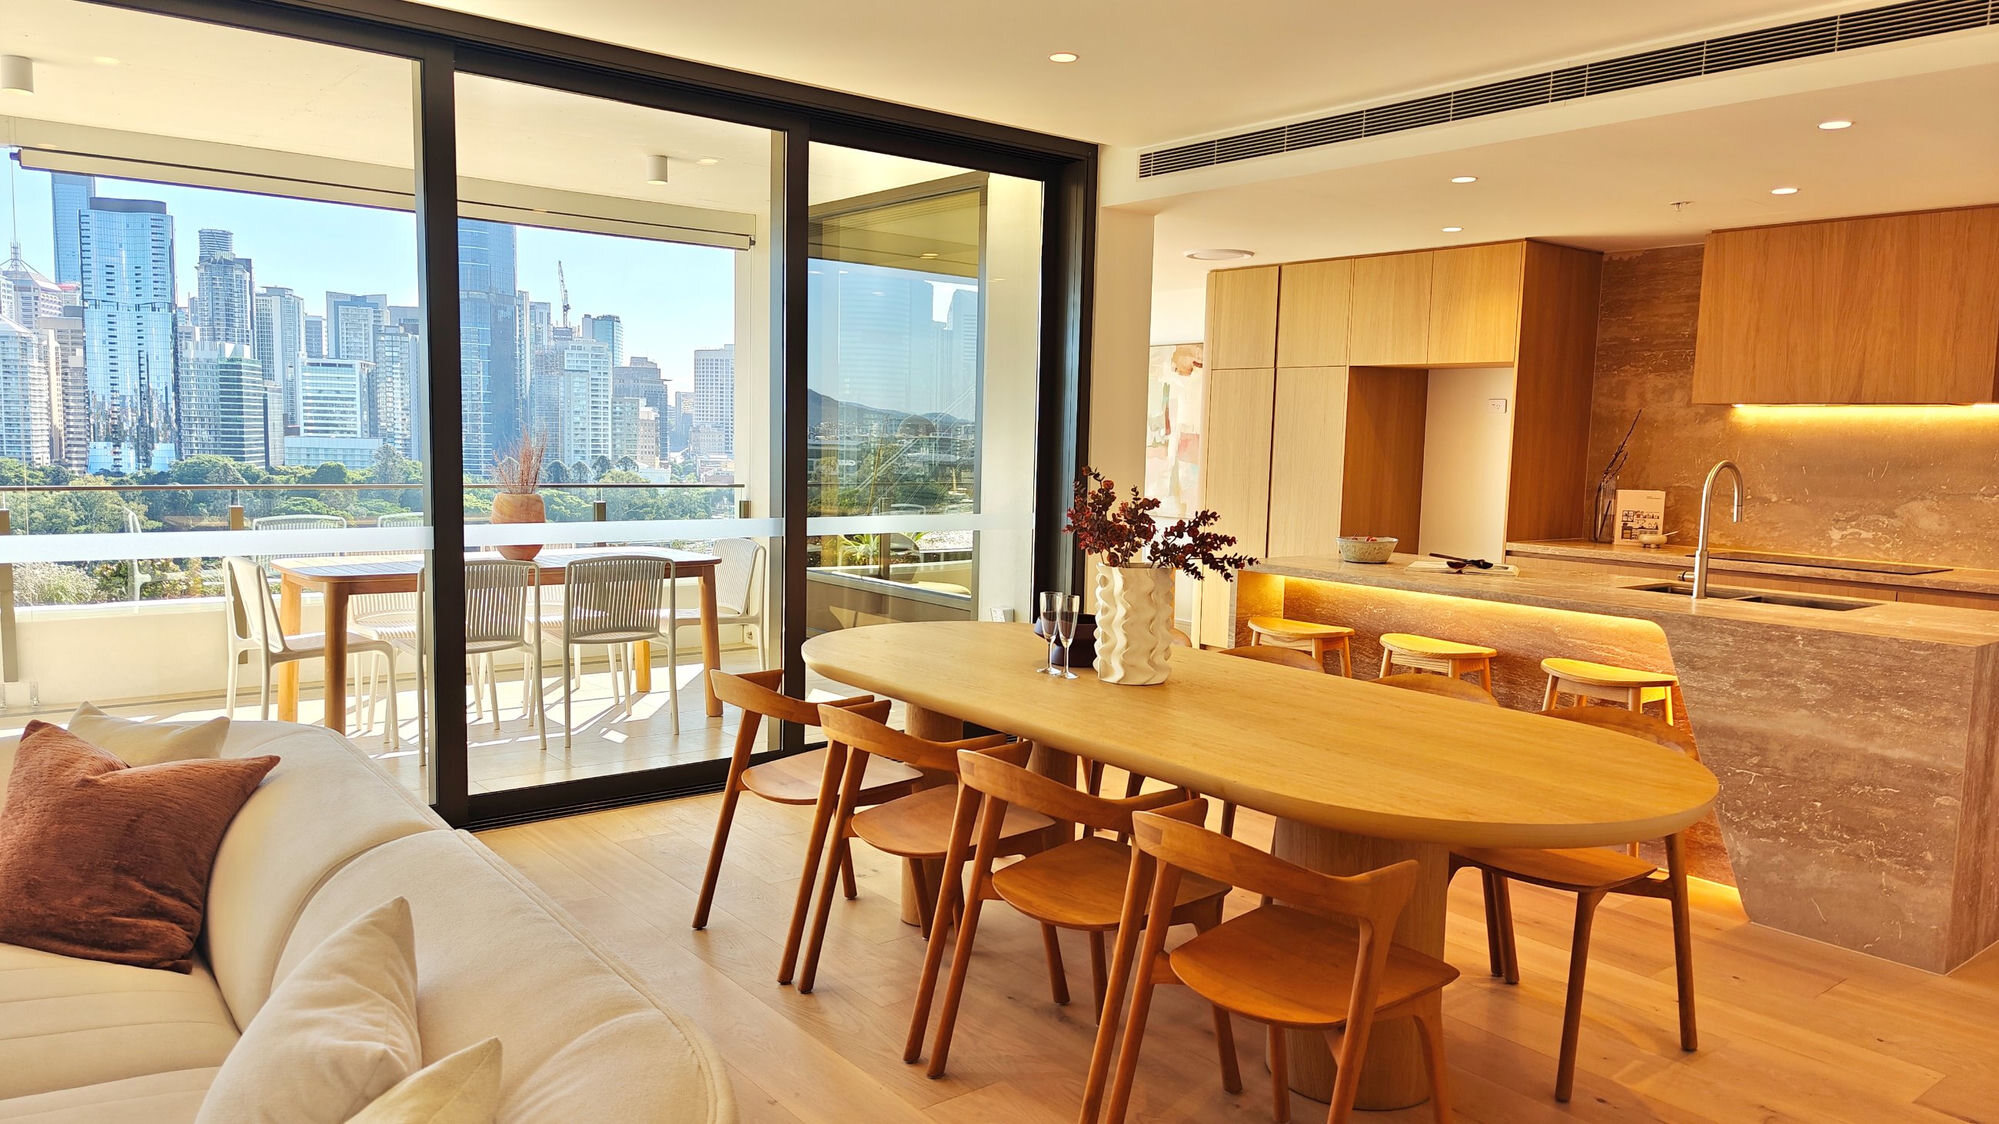
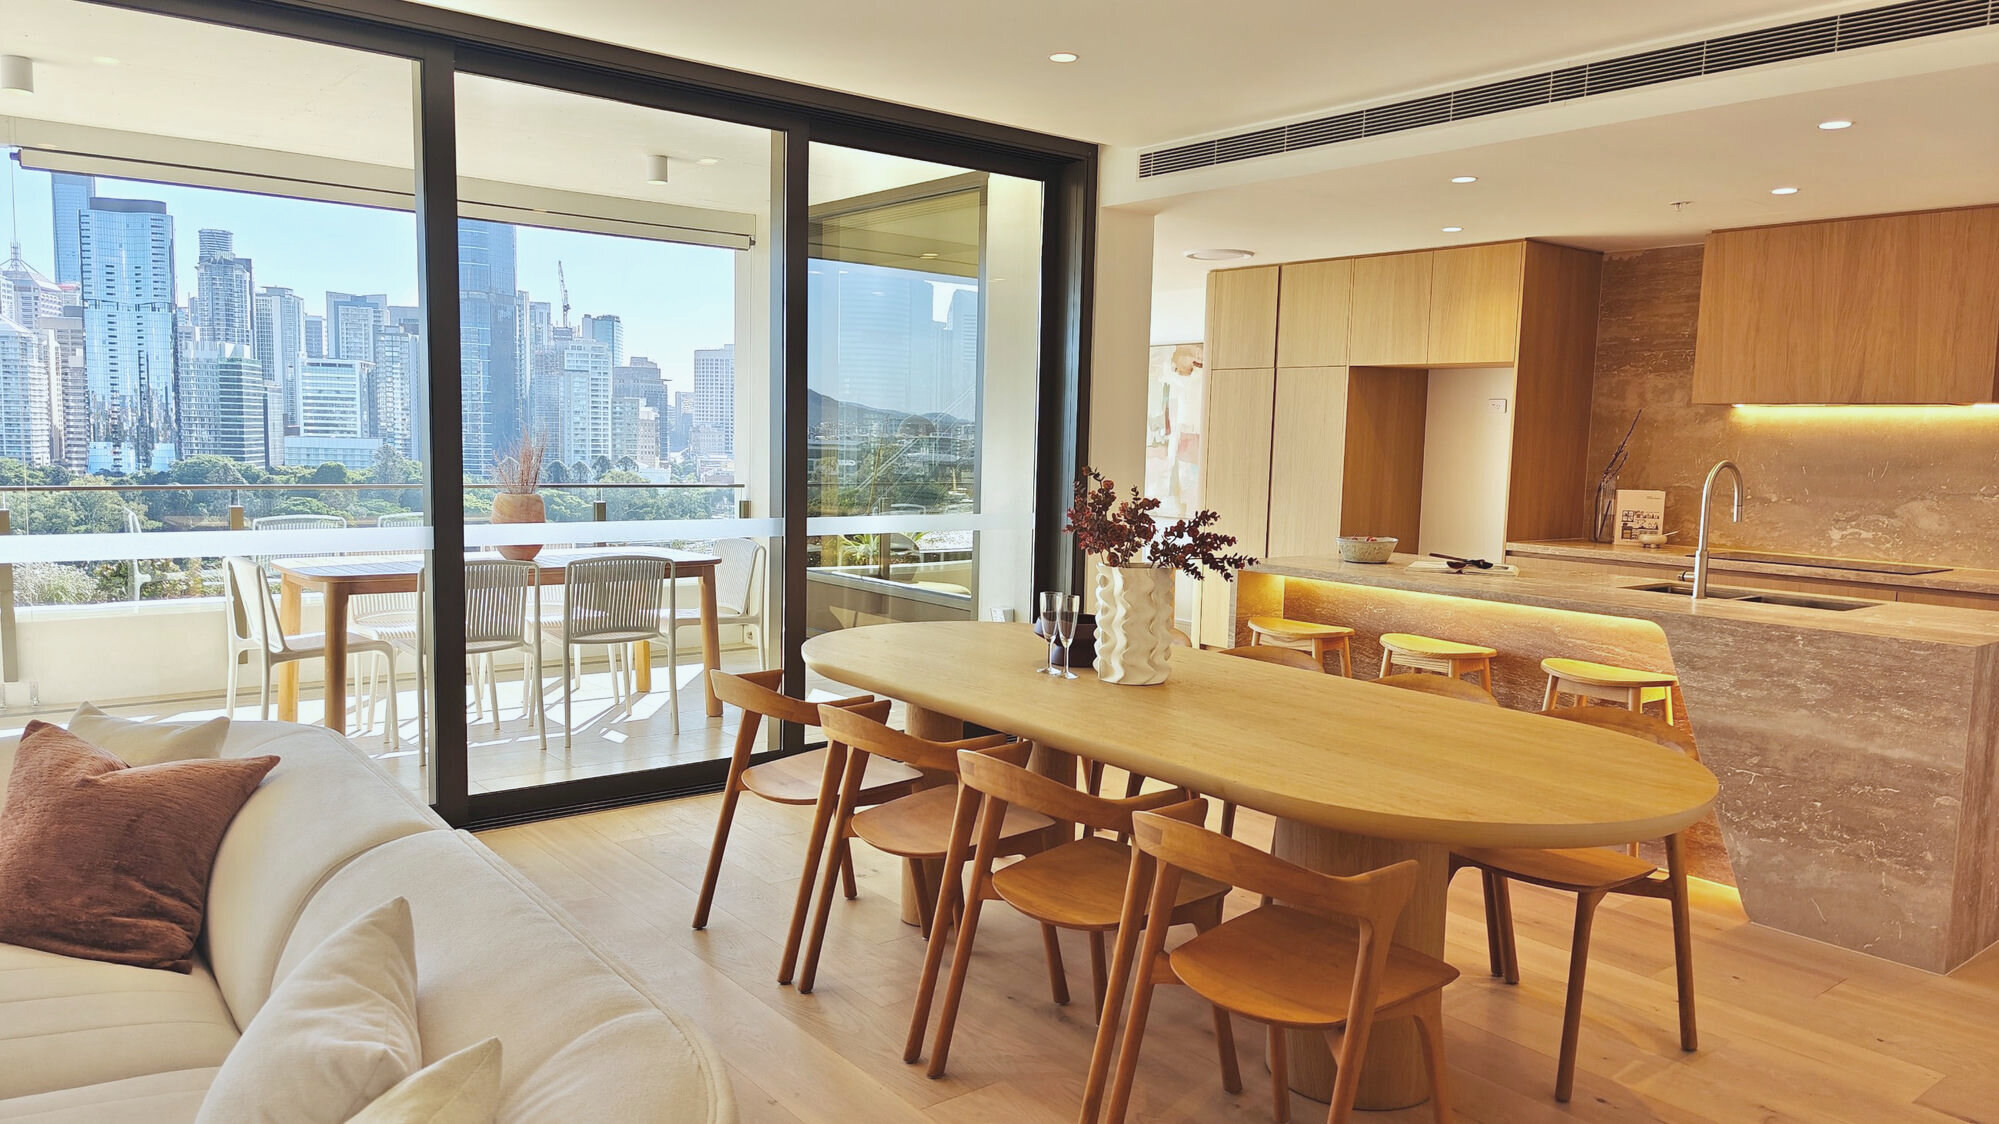
Refine: brighten+airy filter on bedroom(07)/living(13), harmonize finishes(19) tone; redesign film CTA as elegant circular play button; tighten suite phrase to one line close to images (merge sec17); rooftop image moved above text; amenity images above one-line caption (drop eyebrow); closing back t

diff --git a/index.html b/index.html
@@ -152,7 +152,7 @@
 
   /* ---------- closing ---------- */
   .closing{height:100svh;min-height:560px;display:flex;align-items:center;justify-content:center;text-align:center;
-    background:linear-gradient(180deg,rgba(20,14,10,.42),rgba(20,14,10,.72)),url('assets/photos/p25_close.jpg') center/cover no-repeat}
+    background:linear-gradient(180deg,rgba(20,14,10,.42),rgba(20,14,10,.72)),url('assets/photos/facade.jpg') center/cover no-repeat}
   .closing .ci{max-width:760px;padding:0 24px}
   .closing h2{color:#fff}
   .closing .addr{margin-top:36px;font-size:13px;letter-spacing:.32em;color:#ece4d6;text-transform:uppercase;line-height:2.2}
@@ -178,7 +178,9 @@
   .film-card .fc .e{font-size:10px;letter-spacing:.34em;color:var(--bronze);text-transform:uppercase}
   .film-card .fc .t{font-family:var(--serif);font-size:18px;color:#fff;margin-top:5px;text-shadow:0 2px 18px rgba(0,0,0,.6)}
   .film-card{cursor:pointer}
-  .film-card .fc .play{margin-top:11px;display:inline-flex;align-items:center;font-size:11px;letter-spacing:.16em;color:#fff;background:rgba(255,255,255,.16);border:1px solid rgba(255,255,255,.45);padding:7px 14px;border-radius:30px;backdrop-filter:blur(4px)}
+  .film-card .fc .play{margin-top:14px;display:inline-flex;align-items:center;gap:11px;font-size:10px;letter-spacing:.32em;text-transform:uppercase;color:#f1eade;font-weight:300}
+  .film-card .fc .play .ico{width:34px;height:34px;border:1px solid rgba(241,234,222,.6);border-radius:50%;display:inline-flex;align-items:center;justify-content:center;font-size:8px;padding-left:2px;transition:.35s ease}
+  .film-card:hover .fc .play .ico{background:var(--bronze);border-color:var(--bronze);color:#fff}
   @media(max-width:760px){.films{grid-template-columns:1fr;max-width:360px;margin-left:auto;margin-right:auto}}
 
   @media(max-width:860px){
@@ -412,11 +414,11 @@
     <div class="films reveal d2">
       <div class="film-card">
         <video src="assets/video/film_interior.mp4?v=2" poster="assets/video/film_interior.jpg?v=2" autoplay muted loop playsinline webkit-playsinline x5-playsinline disablepictureinpicture preload="auto"></video>
-        <div class="fc"><div class="e">Interior</div><div class="t">室内漫游 · 落地视野</div><div class="play">▶ 点击观看视频</div></div>
+        <div class="fc"><div class="e">Interior</div><div class="t">室内漫游 · 落地视野</div><div class="play"><span class="ico">▶</span>点击观看视频</div></div>
       </div>
       <div class="film-card">
         <video src="assets/video/film_view.mp4?v=2" poster="assets/video/film_view.jpg?v=2" autoplay muted loop playsinline webkit-playsinline x5-playsinline disablepictureinpicture preload="auto"></video>
-        <div class="fc"><div class="e">The View</div><div class="t">城市视野 · 河与天际线</div><div class="play">▶ 点击观看视频</div></div>
+        <div class="fc"><div class="e">The View</div><div class="t">城市视野 · 河与天际线</div><div class="play"><span class="ico">▶</span>点击观看视频</div></div>
       </div>
     </div>
   </div>
@@ -464,13 +466,7 @@
       <img src="assets/photos/p16_bath.jpg" alt="洞石主卫与浴缸" loading="lazy" style="width:100%;display:block;border-radius:3px" />
       <img src="assets/photos/p16_robe.jpg" alt="落地步入式衣帽间" loading="lazy" style="width:100%;display:block;border-radius:3px" />
     </div>
-  </div>
-</section>
-
-<!-- SUITE GALLERY -->
-<section data-sec class="s-dark" style="background:var(--bg-alt)">
-  <div class="wrap">
-    <h2 class="reveal d1" style="text-align:center">卧室、衣帽间与卫浴，<em>一应私享</em></h2>
+    <p class="reveal d3" style="text-align:center;margin-top:22px;font-family:var(--serif);font-size:clamp(16px,4.2vw,22px);color:var(--stone);letter-spacing:.02em">卧室、衣帽间与卫浴，<em style="font-style:italic;font-family:var(--display);color:var(--bronze)">一应私享</em></p>
   </div>
 </section>
 
@@ -507,28 +503,23 @@
 <!-- 12 ROOFTOP -->
 <section data-sec class="s-dark">
   <div class="wrap">
-    <div class="split">
-      <div class="txt">
-        <div class="eyebrow reveal"><span class="num">09</span>顶层生活 · 屋顶</div>
-        <h2 class="reveal d1">凌驾一切之上，<br><em>尽揽全城风光</em></h2>
-        <p class="lede reveal d2">在恒温无边泳池中,舒缓身心,饱览河流至城市的壮阔全景。屋顶休闲再生平台设有躺椅与户外厨房,宛若度假胜地的私属庇护所。</p>
-        <p class="lede reveal d3">地面层礼遇延续 —— 礼宾式 Porte Cochère 落客区通向双门厅，中央休闲花园以葱郁景观连接住户图书馆与共享工作空间。</p>
-        <div class="tags reveal d3"><span>恒温无边泳池</span><span>屋顶户外厨房</span><span>住户图书馆</span><span>礼宾落客区</span></div>
-      </div>
-      <div class="media reveal d2"><img src="assets/photos/p20_poolaerial.jpg" alt="屋顶无边泳池俯瞰" loading="lazy" /></div>
-    </div>
+    <div class="reveal d1"><img src="assets/photos/p20_poolaerial.jpg" alt="屋顶无边泳池俯瞰" loading="lazy" style="width:100%;display:block;border-radius:3px" /></div>
+    <div class="eyebrow reveal" style="margin-top:54px"><span class="num">09</span>顶层生活 · 屋顶</div>
+    <h2 class="reveal d1">凌驾一切之上，<em> 尽揽全城风光</em></h2>
+    <p class="lede reveal d2">在恒温无边泳池中，舒缓身心，饱览河流至城市的壮阔全景。屋顶休闲再生平台设有躺椅与户外厨房，宛若度假胜地的私属庇护所。</p>
+    <p class="lede reveal d3">地面层礼遇延续 —— 礼宾式 Porte Cochère 落客区通向双门厅，中央休闲花园以葱郁景观连接住户图书馆与共享工作空间。</p>
+    <div class="tags reveal d3"><span>恒温无边泳池</span><span>屋顶户外厨房</span><span>住户图书馆</span><span>礼宾落客区</span></div>
   </div>
 </section>
 
 <!-- AMENITY GALLERY -->
 <section data-sec class="s-dark">
   <div class="wrap">
-    <div class="eyebrow reveal">共享礼遇 · Arrival &amp; Amenity</div>
-    <h2 class="reveal d1">从礼宾落客，<em>到屋顶泳池</em></h2>
-    <div class="reveal d2" style="margin-top:48px;display:grid;gap:18px">
+    <div class="reveal d1" style="display:grid;gap:18px">
       <img src="assets/photos/p21_arrival.jpg" alt="礼宾式落客区与门厅" loading="lazy" style="width:100%;display:block;border-radius:3px" />
       <img src="assets/photos/p21_pool.jpg" alt="屋顶无边泳池 · 黄昏" loading="lazy" style="width:100%;display:block;border-radius:3px" />
     </div>
+    <p class="reveal d2" style="text-align:center;margin-top:26px;font-family:var(--serif);font-size:clamp(16px,4.2vw,22px);color:var(--stone)">从礼宾落客，<em style="font-style:italic;font-family:var(--display);color:var(--bronze)">到屋顶泳池</em></p>
   </div>
 </section>
 